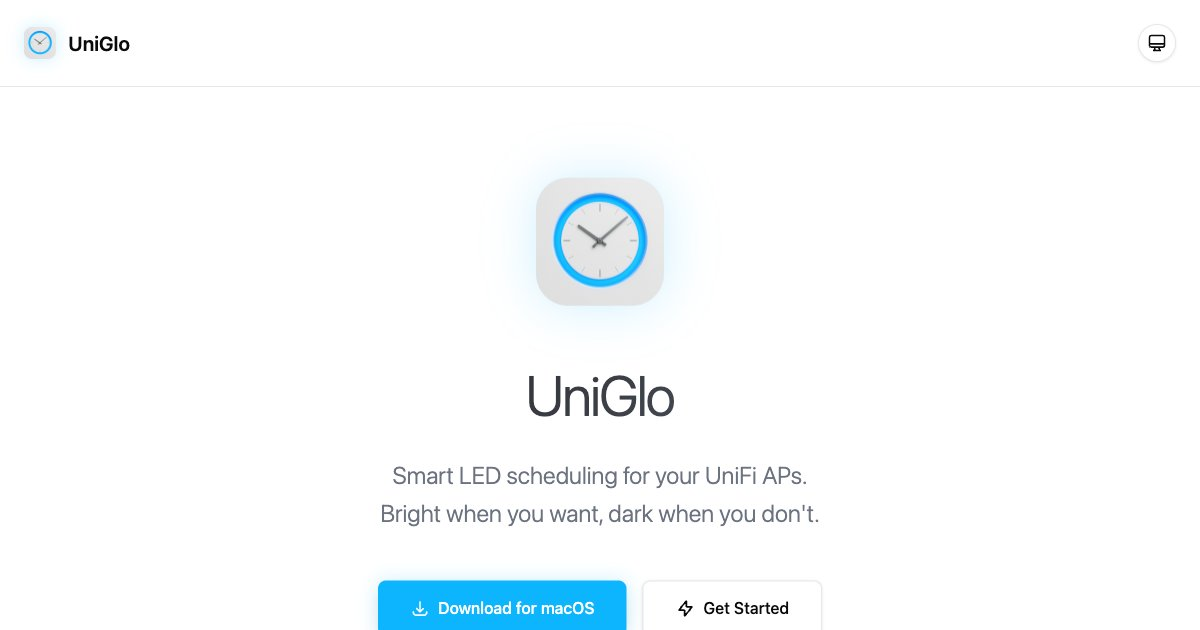
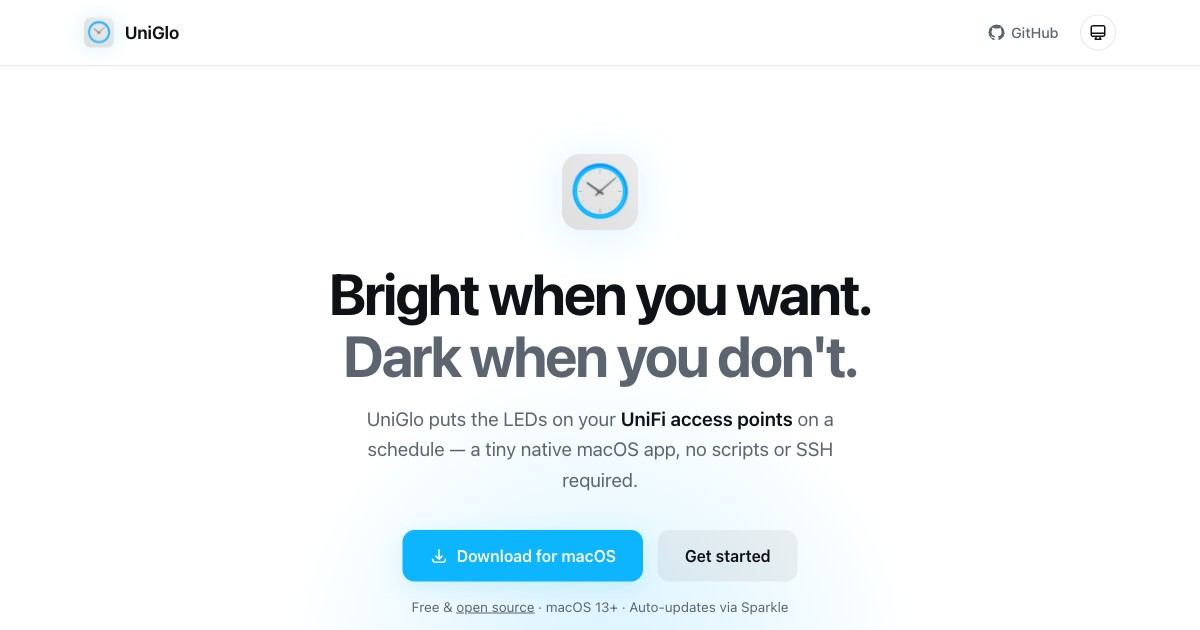
Reorganize projects with categories and new entries
Add a category field (products / open-source / fun) to the projects
collection, import six new projects with thumbnails, and refresh
existing project art and copy.

diff --git a/src/content.config.ts b/src/content.config.ts
@@ -30,6 +30,7 @@ const projects = defineCollection({
     url: z.string().optional(),
     image: z.string().optional(),
     status: z.enum(['active', 'archived']).default('active'),
+    category: z.enum(['products', 'open-source', 'fun']).default('fun'),
     tags: z.array(z.string()).default([]),
     year: z.number().optional(),
     sortOrder: z.number().default(0),

diff --git a/src/content/projects/clientside.md b/src/content/projects/clientside.md
@@ -1,0 +1,11 @@
+---
+title: Clientside
+description: Communication training for client-facing teams
+url: https://getclientside.co
+status: active
+category: products
+tags: [education, web]
+sortOrder: 2
+brandColor: '#1a5632'
+monogram: Cs
+---

diff --git a/src/content/projects/ghostwriter.md b/src/content/projects/ghostwriter.md
@@ -1,0 +1,11 @@
+---
+title: Ghostwriter
+description: Teach your AI agent to write like you
+url: /ghostwriter/
+status: active
+category: open-source
+tags: [ai, developer-tools]
+sortOrder: 8
+brandColor: '#7c3aed'
+monogram: Gw
+---

diff --git a/src/content/projects/meeting-animals.md b/src/content/projects/meeting-animals.md
@@ -1,0 +1,11 @@
+---
+title: Meeting Animals
+description: Silent visual signals for Google Meet
+url: https://workspace.google.com/marketplace/app/meeting_animals/86737574551
+status: active
+category: products
+tags: [meetings, tool]
+sortOrder: 6
+brandColor: '#34a853'
+monogram: MA
+---

diff --git a/src/content/projects/project-scout.md b/src/content/projects/project-scout.md
@@ -1,0 +1,11 @@
+---
+title: Project Scout
+description: AI-powered project discovery for agencies
+url: https://projectscout.co
+status: active
+category: products
+tags: [ai, web]
+sortOrder: 3
+brandColor: '#16a34a'
+monogram: PS
+---

diff --git a/src/content/projects/puzzle-points.md b/src/content/projects/puzzle-points.md
@@ -1,0 +1,11 @@
+---
+title: Puzzle Points
+description: Competitive scorekeeping for jigsaw puzzles
+url: /puzzle-points/
+status: active
+category: products
+tags: [fun, app]
+sortOrder: 5
+brandColor: '#8b5cf6'
+monogram: PP
+---

diff --git a/src/content/projects/trust-check.md b/src/content/projects/trust-check.md
@@ -1,0 +1,11 @@
+---
+title: TrustCheck
+description: Spot scams in messages, emails, and screenshots
+url: /Trust-Check/
+status: active
+category: products
+tags: [ios, app]
+sortOrder: 4
+brandColor: '#0f766e'
+monogram: TC
+---

diff --git a/src/content/projects/popcorn.md b/src/content/projects/popcorn.md
@@ -1,9 +1,10 @@
 ---
-title: Popcorn
+title: Perfect Popcorn
 description: "Josh's buttered ranch popcorn recipe"
 url: /popcorn
 status: active
+category: fun
 tags: [food, fun]
-sortOrder: 8
+sortOrder: 15
 brandColor: '#d98324'
 ---

diff --git a/src/content/projects/tmux-guide.md b/src/content/projects/tmux-guide.md
@@ -1,9 +1,10 @@
 ---
-title: tmux
+title: Learn tmux
 description: An interactive guide to terminal multiplexing
 url: /tmux
 status: active
+category: fun
 tags: [developer-tools, guide]
-sortOrder: 7
+sortOrder: 14
 brandColor: '#37b24d'
 ---

diff --git a/src/content/projects/welcome-to-f1.md b/src/content/projects/welcome-to-f1.md
@@ -1,10 +1,11 @@
 ---
-title: Welcome to F1
+title: Welcome to Formula One
 description: "A beginner's guide to Formula 1 racing"
 url: https://welcometof1.com
 status: active
+category: fun
 tags: [f1, web]
-sortOrder: 1
+sortOrder: 11
 brandColor: '#e10600'
 monogram: F1
 ---

diff --git a/src/content/projects/haha-scale.md b/src/content/projects/haha-scale.md
@@ -3,8 +3,9 @@ title: The Haha Scale
 description: A standardized system for humor intensity
 url: https://hahascale.lol
 status: active
+category: fun
 tags: [fun, web]
-sortOrder: 3
+sortOrder: 12
 brandColor: '#f5a623'
 monogram: Ha
 ---

diff --git a/src/content/projects/hard-linker.md b/src/content/projects/hard-linker.md
@@ -3,8 +3,9 @@ title: Hard Linker
 description: Space-efficient file linking for macOS
 url: /hard-linker/
 status: active
+category: open-source
 tags: [macos, tool]
-sortOrder: 6
+sortOrder: 9
 brandColor: '#14b8a6'
 monogram: HL
 ---